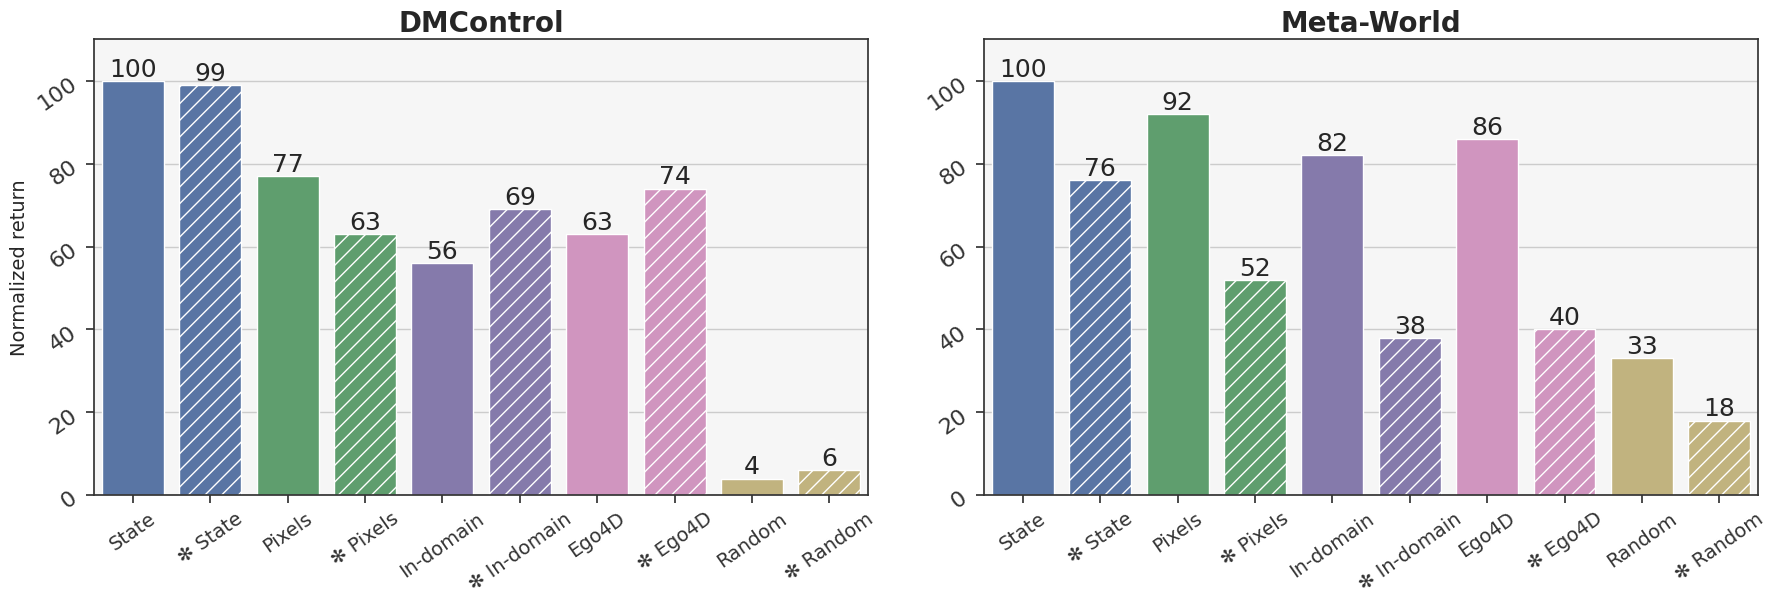
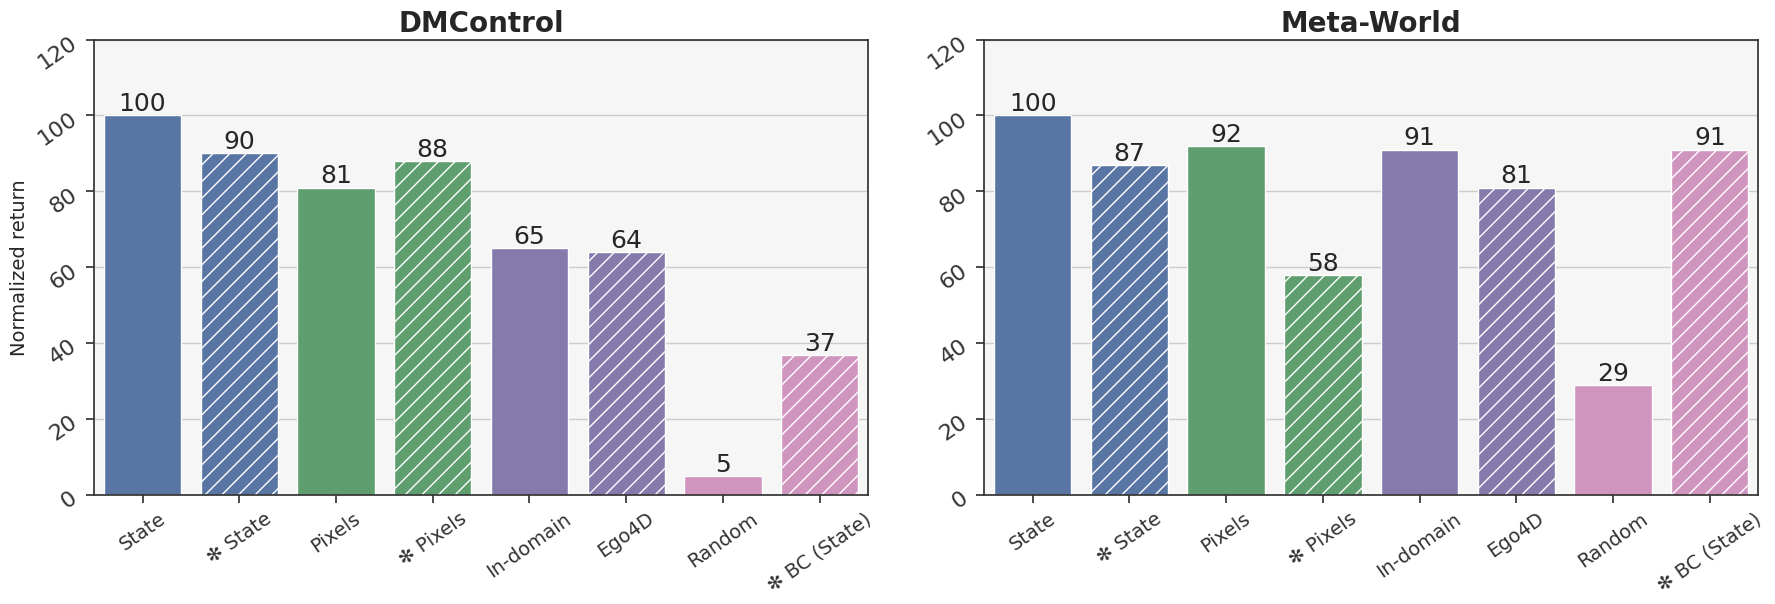
state-based lazy loading buffer (efficient-ish)

diff --git a/algorithm/helper.py b/algorithm/helper.py
@@ -5,11 +5,12 @@ import numpy as np
 import torch
 import torch.nn as nn
 import torch.nn.functional as F
+import random
 from collections import defaultdict
 from pathlib import Path
 from torch import distributions as pyd
 from torch.distributions.utils import _standard_normal
-# from torch.utils.data import IterableDataset
+from torch.utils.data import IterableDataset
 
 
 __REDUCE__ = lambda b: 'mean' if b else 'none'
@@ -342,8 +343,9 @@ class Episode(object):
 class ReplayBuffer():
 	"""
 	Storage and sampling functionality for training TD-MPC / TOLD.
-	The replay buffer is stored in GPU memory when trainining state.
-	Uses prioritized experience replay by default."""
+	The replay buffer is stored in GPU memory when training from state.
+	Uses prioritized experience replay by default.
+	"""
 	def __init__(self, cfg):
 		self.cfg = cfg
 		self.device = torch.device(cfg.device)
@@ -471,6 +473,115 @@ class ReplayBuffer():
 		return obs.cuda(), next_obs.cuda(), action.cuda(), reward.cuda().unsqueeze(2), state, next_state, task_vec, idxs.cuda(), weights.cuda()
 
 
+class LazyReplayBufferIterable(IterableDataset):
+	"""
+	Child process for sampling from disk.
+	"""
+	def __init__(self, cfg, num_workers=1, max_episodes=10, fetch_every=4):
+		self.cfg = cfg
+		self.num_workers = num_workers
+		self.max_episodes = max_episodes
+		self.fetch_every = fetch_every
+		self.obs_dtype = torch.uint8 if cfg.modality == 'pixels' else torch.float32
+		self.obs_shape = (3, *cfg.obs_shape[-2:]) if cfg.modality == 'pixels' else cfg.obs_shape
+		self._fps = []
+		self._episodes = [None] * max_episodes
+		self._i = 0
+		self._worker_id = None
+
+	def set_fps(self, fps):
+		self._fps = fps
+
+	def _sample(self):
+		# Initialize the worker if first time
+		if self._worker_id is None:
+			try:
+				self._worker_id = torch.utils.data.get_worker_info().id
+			except:
+				self._worker_id = 0
+			total_fps = len(self._fps)
+			self._fps = self._fps[self._worker_id::self.num_workers]
+			print(f'Worker {self._worker_id} sampling from {len(self._fps)}/{total_fps} episodes')
+
+		# Load episode from disk
+		num_load = self.max_episodes if self._i == 0 else int(self._i % self.fetch_every == 0)
+		# print('Worker {} loading {} episodes'.format(self._worker_id, num_load))
+		for i in range(num_load):
+			fp = self._fps[np.random.randint(len(self._fps))]
+			self._episodes[(self._i + i) % self.max_episodes] = torch.load(fp)
+		self._i += 1
+
+		# Sample a trajectory
+		data = self._episodes[np.random.randint(self.max_episodes)]
+		idxs = np.random.randint(self.cfg.episode_length-self.cfg.horizon)
+		obs = torch.from_numpy(data['states'][idxs])
+		next_obs = torch.from_numpy(np.stack(data['states'][idxs+1:idxs+self.cfg.horizon+1]))
+		action = torch.from_numpy(np.stack(data['actions'][idxs:idxs+self.cfg.horizon])).float().clip(-1, 1)
+		reward = torch.from_numpy(np.stack(data['rewards'][idxs:idxs+self.cfg.horizon])).float()
+		return obs, next_obs, action, reward
+
+	def __iter__(self):
+		while True:
+			yield self._sample()
+
+
+def _worker_init_fn(worker_id):
+	seed = np.random.get_state()[1][0] + worker_id
+	np.random.seed(seed)
+	random.seed(seed)
+
+
+class LazyReplayBuffer(ReplayBuffer):
+	"""
+	Replay buffer that uses a lazy loading mechanism for large buffer sizes.
+	Unlike the regular replay buffer, this one does not require the entire buffer to be loaded at once,
+	but also does not support prioritized sampling due to the buffer living in multiple processes.
+	"""
+	def __init__(self, cfg):
+		self.cfg = cfg
+		self.capacity = 1_000_000
+		self.num_workers = 32
+
+	def init(self, fps):
+		self._fps = fps
+		iterable = LazyReplayBufferIterable(self.cfg,
+											num_workers=self.num_workers)
+		iterable.set_fps(fps)
+		self._loader = torch.utils.data.DataLoader(iterable,
+												   batch_size=self.cfg.batch_size,
+											 	   num_workers=self.num_workers,
+											 	   pin_memory=True,
+											 	   worker_init_fn=_worker_init_fn)
+		self._iter = None
+	
+	@property
+	def full(self):
+		return False
+
+	def __add__(self, episode: Episode):
+		return self
+
+	def add(self, episode: Episode):
+		return self
+
+	def update_priorities(self, idxs, priorities):
+		pass
+
+	@property
+	def iter(self):
+		if self._iter is None:
+			self._iter = iter(self._loader)
+		return self._iter
+
+	def sample(self):
+		obs, next_obs, action, reward = next(self.iter)
+		return obs.cuda().float(), \
+			   next_obs.permute(1,0,2).cuda().float(), \
+			   action.permute(1,0,2).cuda(), \
+			   reward.unsqueeze(2).permute(1,0,2).cuda(), \
+			   None, None, None, None, 1.
+
+
 class RendererBuffer(ReplayBuffer):
 	"""
 	Storage and sampling functionality for training a renderer."""
@@ -560,31 +671,13 @@ class RendererBuffer(ReplayBuffer):
 			dictionary['state'] = state.cuda()
 			dictionary['next_state'] = next_state.cuda()
 		return dictionary
-
-
-# class LazyReplayBuffer(IterableDataset):
-# 	def __init__(self, cfg):
-# 		self.cfg = cfg
-# 		self.capacity = (cfg.num_tasks if cfg.get('multitask', False) else 1)*1_000_000 + 1
-# 		self.obs_dtype = torch.uint8 if cfg.modality == 'pixels' else torch.float32
-# 		self.obs_shape = (3, *cfg.obs_shape[-2:]) if cfg.modality == 'pixels' else cfg.obs_shape
-# 		self._priorities = torch.ones((self.capacity,), dtype=torch.float32, device=self.device)
-# 		self._fps = []
-# 		self._eps = 1e-6
-
-# 	def set_fps(self, fps):
-# 		self._fps = fps
-	
-# 	def _sample(self):
 	
 
-# def make_buffer(cfg):
-# 	if cfg.buffer_type == 'default':
-# 		return ReplayBuffer(cfg)
-# 	elif cfg.buffer_type == 'lazy':
-# 		return LazyReplayBuffer(cfg)
-# 	else:
-# 		raise ValueError('Unknown buffer type: {}'.format(cfg.buffer_type))
+def make_buffer(cfg):
+	if cfg.get('lazy_load', False):
+		return LazyReplayBuffer(cfg)
+	else:
+		return ReplayBuffer(cfg)
 
 
 def linear_schedule(schdl, step):

diff --git a/plot_singletask.py b/plot_singletask.py
@@ -33,20 +33,21 @@ def main():
 		'dmcontrol': ['cup-catch', 'finger-spin', 'cheetah-run', 'walker-walk', 'walker-run'],
 		'metaworld': ['mw-drawer-close', 'mw-drawer-open', 'mw-hammer', 'mw-box-close', 'mw-push']
 	}
-	exp_names = ['v1', 'offline-v1', 'mocodmcontrol-v1', 'mocodmcontrol-offline-v1', 'mocometaworld-v1', 'mocometaworld-offline-v1', 'mocoego-v1', 'mocoego-offline-v1', 'random-v1', 'random-offline-v1']
+	exp_names = ['v1', 'offline-v2', 'mocodmcontrol-v1', 'mocodmcontrol-offline-v2', 'mocometaworld-v1', 'mocometaworld-offline-v2', 'mocoego-v1', 'mocoego-offline-v2', 'random-v1', 'random-offline-v2', 'bc-offline-v2']
 	experiment2label = {
 		'state-v1': 'State',
-		'state-offline-v1': '✻ State',
+		'state-offline-v2': '✻ State',
 		'pixels-v1': 'Pixels',
-		'pixels-offline-v1': '✻ Pixels',
+		'pixels-offline-v2': '✻ Pixels',
 		'features-mocodmcontrol-v1': 'In-domain',
-		'features-mocodmcontrol-offline-v1': '✻ In-domain',
+		'features-mocodmcontrol-offline-v2': '✻ In-domain',
 		'features-mocometaworld-v1': 'In-domain',
-		'features-mocometaworld-offline-v1': '✻ In-domain',
+		'features-mocometaworld-offline-v2': '✻ In-domain',
 		'features-mocoego-v1': 'Ego4D',
-		'features-mocoego-offline-v1': '✻ Ego4D',
+		'features-mocoego-offline-v2': '✻ Ego4D',
 		'features-random-v1': 'Random',
-		'features-random-offline-v1': '✻ Random',
+		'features-random-offline-v2': '✻ Random',
+		'state-bc-offline-v2': '✻ BC (State)',
 	}
 	num_seeds = 3
 	seeds = set(range(1, num_seeds+1))
@@ -83,9 +84,11 @@ def main():
 		idx = list(experiment2label.values()).index(label)
 		step = np.array(hist['_step'])
 		step = step[step <= 500_000]
+		if step[-1] < 70_000:
+			continue
 		reward = np.array(hist[key])
 		reward = reward[:min(len(step), len(reward))][-1]
-		print(f'Appending experiment {label} with reward {reward}')
+		print(f'Appending experiment {label} for task {task} with reward {reward} at step {step[-1]}')
 		entries.append(
 			(idx, cfg['task'], label, seed, reward)
 		)

diff --git a/train_offline.py b/train_offline.py
@@ -13,7 +13,7 @@ from cfg_parse import parse_cfg
 from env import make_env, set_seed
 from algorithm.tdmpc import TDMPC
 from algorithm.bc import BC
-from algorithm.helper import ReplayBuffer
+from algorithm.helper import make_buffer
 from dataloader import make_dataset
 from termcolor import colored
 import logger
@@ -58,14 +58,16 @@ def train_offline(cfg: dict):
 	set_seed(cfg.seed)
 	work_dir = Path(cfg.logging_dir) / __LOGS__ / cfg.task / (cfg.get('features', cfg.modality)) / cfg.algorithm / cfg.exp_name / str(cfg.seed)
 	print(colored('Work dir:', 'yellow', attrs=['bold']), work_dir)
-	env, agent, buffer = make_env(cfg), make_agent(cfg), ReplayBuffer(cfg)
+	env, agent, buffer = make_env(cfg), make_agent(cfg), make_buffer(cfg)
 	print(agent.model)
 
 	# Load dataset
 	dataset = make_dataset(cfg, buffer)
-	print(f'Buffer contains {buffer.capacity if buffer.full else buffer.idx} transitions, capacity is {buffer.capacity-1}')
-	dataset_summary = dataset.summary
-	print(f'\n{colored("Dataset statistics:", "yellow")}\n{dataset_summary}\n')
+	try:
+		print(f'Buffer contains {buffer.capacity if buffer.full else buffer.idx} transitions, capacity is {buffer.capacity-1}')
+		print(f'\n{colored("Dataset statistics:", "yellow")}\n{dataset.summary}\n')
+	except:
+		print('Using lazy replay buffer')
 	print(colored(f'Training: {work_dir}', 'blue', attrs=['bold']))
 
 	# Resume training (if applicable)
@@ -82,6 +84,21 @@ def train_offline(cfg: dict):
 
 		# Update model
 		train_metrics = agent.update(buffer, int(1e6))
+
+		# if cfg.get('lazy_load', False):
+		# 	# time the update
+		# 	t0 = time.time()
+		# 	for _ in range(100):
+		# 		agent.update(buffer, int(1e6))
+		# 	t1 = time.time()
+		# 	print(f'Update time: {t1-t0}')
+			### Timings (per 100) ###
+			# Regular replay buffer: 4s
+			# 4 workers: 84s
+			# 8 workers: 43s
+			# 16 workers: 25s
+			# 32 workers: 15s
+			# 32 workers with amortized loading: 5s
 
 		if iteration % cfg.eval_freq == 0:
 

diff --git a/algorithm/tdmpc.py b/algorithm/tdmpc.py
@@ -194,7 +194,7 @@ class TDMPC():
 			a += std * torch.randn(self.cfg.action_dim, device=std.device)
 		return a.clamp_(-1, 1)
 
-	def update_pi(self, zs, task_vec):
+	def update_pi(self, zs, action, task_vec):
 		"""Update policy using a sequence of latent states."""
 		self.pi_optim.zero_grad(set_to_none=True)
 		self.model.track_q_grad(False)
@@ -204,7 +204,11 @@ class TDMPC():
 		for t,z in enumerate(zs):
 			a = self.model.pi(z, task_vec, self.cfg.min_std)
 			Q = torch.min(*self.model.Q(z, a, task_vec))
-			pi_loss += -Q.mean() * (self.cfg.rho ** t)
+			if self.cfg.get('bc_loss', False):
+				lmbda = self.cfg.bc_coef/Q.abs().mean().detach()
+				pi_loss += (-lmbda * Q.mean() + h.mse(a, action[t]).mean()) * (self.cfg.rho ** t)
+			else:
+				pi_loss += -Q.mean() * (self.cfg.rho ** t)
 
 		pi_loss.backward()
 		torch.nn.utils.clip_grad_norm_(self.model._pi.parameters(), self.cfg.grad_clip_norm, error_if_nonfinite=False)
@@ -269,7 +273,7 @@ class TDMPC():
 			replay_buffer.update_priorities(idxs, priority_loss.clamp(max=1e4).detach())
 
 		# Update policy + target network
-		pi_loss = self.update_pi(zs, task_vec)
+		pi_loss = self.update_pi(zs, action, task_vec)
 		if step % self.cfg.update_freq == 0:
 			h.soft_update_params(self.model, self.model_target, self.cfg.tau)
 

diff --git a/dataloader.py b/dataloader.py
@@ -48,8 +48,11 @@ class OfflineDataset(Dataset):
 
 		# Load episodes
 		self._buffer = buffer
-		self._load_episodes()
-		self._load_into_buffer()
+		if cfg.get('lazy_load', False):
+			self._buffer.init(self._fps)
+		else:
+			self._load_episodes()
+			self._load_into_buffer()
 	
 	def _locate_episodes(self):
 		raise NotImplementedError()
